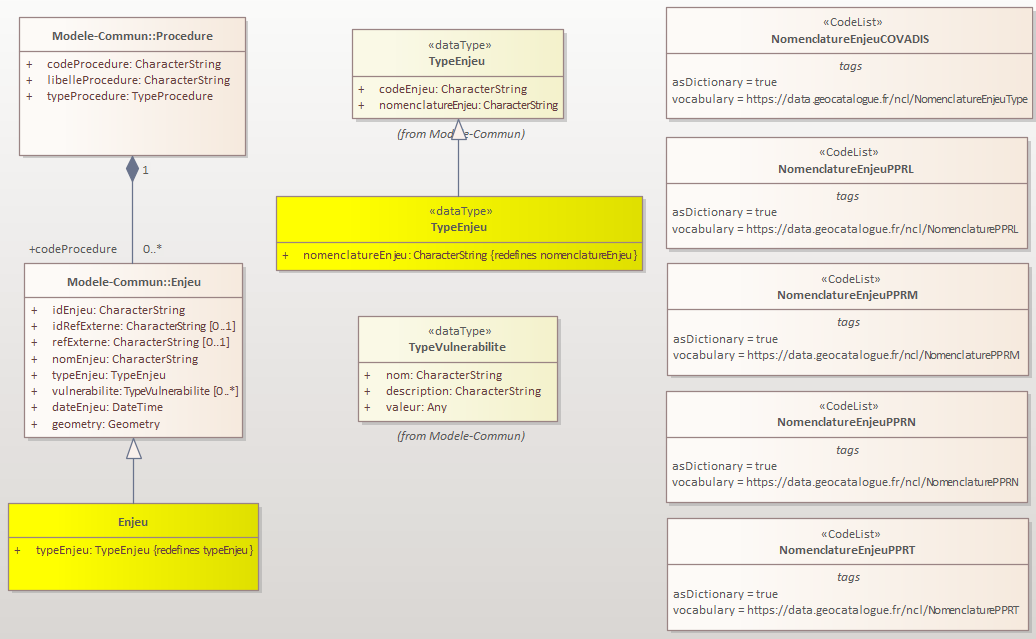
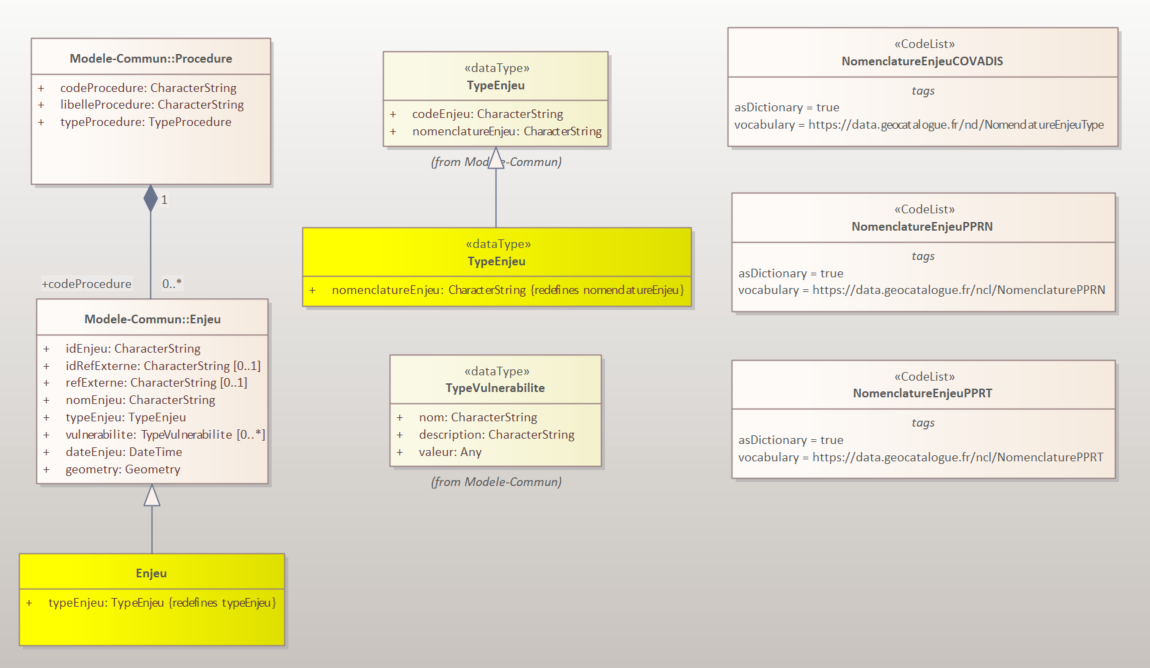
Fusion nomenclatures enjeux PPRN et PPRL

diff --git a/standards/Geostandards-risques-ppr/Document.md b/standards/Geostandards-risques-ppr/Document.md
@@ -442,8 +442,7 @@ Selon les types de PPR et les guides d'élaboration qui leur sont associés, les
 
 Le profil applicatif PPR décline les différentes nomenclatures définies dans les guides d'élaboration en fonction du type de PPR sous forme d'énumérations, qu'il conviendra d'adopter selon le type de PPR qui est mis en œuvre :
 
-- Liste de codes [NomenclatureEnjeuPPRN](#liste-de-codes-nomenclatureenjeupprn) issue du [Guide PPRN:2016](https://www.actu-environnement.com/media/pdf/guide-pprn.pdf) ;
-- Liste de codes [NomenclatureEnjeuPPRL](#liste-de-codes-nomenclatureenjeupprl) issue du [Guide PPRL:2014](https://www.ecologie.gouv.fr/sites/default/files/documents/Guide_m%C3%A9thodo_PPRL_%202014.pdf) ;
+- Liste de codes [NomenclatureEnjeuPPRN](#liste-de-codes-nomenclatureenjeupprn) issue du [Guide PPRN:2016](https://www.actu-environnement.com/media/pdf/guide-pprn.pdf) et du [Guide PPRL:2014](https://www.ecologie.gouv.fr/sites/default/files/documents/Guide_m%C3%A9thodo_PPRL_%202014.pdf) ;
 - Liste de codes [NomenclatureEnjeuPPRT](#liste-de-codes-nomenclatureenjeupprt) issue du [Guide PPRT:2007](https://www.ecologie.gouv.fr/sites/default/files/Guide_PPRT_tbd_complet.pdf) ;
 
 Par ailleurs, l'annexe D de l'ancien standard COVADIS PPR naturels ou technologiques définissait à titre informatif une nomenclature détaillée des enjeux. Cette nomenclature est reprise ici sous le nom de [NomenclatureEnjeuCOVADIS](#liste-de-codes-nomenclatureenjeucovadis), toujours à titre informatif, de façon à faciliter la conversion des anciens PPR COVADIS s'appuyant sur cette nomenclature sans avoir à refaire une classification des enjeux selon une nouvelle nomenclature mais aussi, pour les nouveaux PPR, de préciser, si besoin, la catégorie de certains enjeux.
@@ -740,17 +739,8 @@ Les entités définies dans le modèle commun s'appliquent pour PPR.
 
 **Titre** : Nomenclature Enjeux PPR Naturels Prévisibles
 
-**Définition** : La liste de codes "NomenclatureEnjeuPPRN" expose la classification des enjeux définie par [Guide PPRN:2016](https://www.actu-environnement.com/media/pdf/guide-pprn.pdf). La liste des codes est détaillée en annexe [NomenclatureEnjeuPPRN](#nomenclatureenjeupprn). 
+**Définition** : La liste de codes "NomenclatureEnjeuPPRN" expose les classifications des enjeux définies par [Guide PPRN:2016](https://www.actu-environnement.com/media/pdf/guide-pprn.pdf) et [Guide PPRL:2014](https://www.ecologie.gouv.fr/sites/default/files/Guide%20PPRL%20-%20version%20finale%20mai%202014.pdf). La liste des codes est détaillée en annexe [NomenclatureEnjeuPPRN](#nomenclatureenjeupprn). 
 
-
-
-#### Liste de codes NomenclatureEnjeuPPRL
-
-**Nom de la liste de codes** : NomenclatureEnjeuPPRL
-
-**Titre** : Nomenclature des Enjeux PPR Littoraux
-
-**Définition** : La liste de codes "NomenclatureEnjeuPPRL" expose la classification des enjeux définie par [Guide PPRL:2014](https://www.ecologie.gouv.fr/sites/default/files/Guide%20PPRL%20-%20version%20finale%20mai%202014.pdf), précisée par certains éléments communs au [Guide PPRN:2016](https://www.actu-environnement.com/media/pdf/guide-pprn.pdf). La liste des codes est détaillée en annexe [NomenclatureEnjeuPPRL](#nomenclatureenjeupprl). 
 
 
 #### Liste de codes NomenclatureEnjeuPPRT
@@ -760,6 +750,7 @@ Les entités définies dans le modèle commun s'appliquent pour PPR.
 **Titre** : Nomenclature des Enjeux PPR Technologiques
 
 **Définition** : La liste de codes "NomenclatureEnjeuPPRT" expose la classification des enjeux définie par [Guide PPRT:2007](https://www.ecologie.gouv.fr/sites/default/files/Guide_PPRT_tbd_complet.pdf). La liste des codes est détaillée en annexe [NomenclatureEnjeuPPRT](#nomenclatureenjeupprt).
+
 
 
 #### Liste de codes NomenclatureEnjeuCOVADIS
@@ -852,7 +843,7 @@ __Note__ : les acronymes IGN utilisés dans ce tableau sont les identifiants des
 | Zone géographique | Système géodésique (acronyme IGN) | Système de référence terrestre associé | Projection (acronyme IGN)| Code EPSG |
 |-|-|-|-|-|
 | France métropolitaine | Réseau géodésique français 1993 (RGF93) | ETRS89 | Lambert-93 (RGF93LAMB93) | EPSG:2154 |
-| Guadeloupe, Martinique, Saint-Martin, Saint-Barthélemy | Réseau géodésique des Antilles françaises 2009 (RGAF09) | ITRS | Universal transverse Mercator fuseau 20 nord (RGAF09UTM20) | EPSG:5490 |
+| Guadeloupe, Martinique, Saint-Martin | Réseau géodésique des Antilles françaises 2009 (RGAF09) | ITRS | Universal transverse Mercator fuseau 20 nord (RGAF09UTM20) | EPSG:5490 |
 | Guyane | Réseau géodésique français de Guyane 1995 (RGFG95) | ITRS | Universal transverse Mercator fuseau 22 nord (RGFG95UTM22) | EPSG:2972 |
 | La Réunion | Réseau géodésique de La Réunion 1992 (RGR92) | ITRS | Universal transverse Mercator fuseau 40 sud (RGR92UTM40S) | EPSG:2975 |
 | Mayotte | Réseau géodésique de Mayotte 2004 (RGM04) | ITRS | Universal transverse Mercator fuseau 38 sud (RGM04UTM38S) | EPSG:4471 |
@@ -3061,7 +3052,7 @@ Cette annexe rassemble les définitions complètes des différentes nomenclature
 
 ## NomenclatureEnjeuPPRN
 
-La liste de codes "NomenclatureEnjeuPPRN" expose la classification des enjeux définie par [Guide PPRN:2016](https://www.actu-environnement.com/media/pdf/guide-pprn.pdf). Il s'agit d'une classification hiérarchique qui s'appuie sur les trois grandes catégories d'enjeux définies dans le guide : les enjeux incontournables, les enjeux complémentaires et les autres éléments de contexte. 
+La liste de codes "NomenclatureEnjeuPPRN" expose et fusionne les classifications des enjeux définies par [Guide PPRN:2016](https://www.actu-environnement.com/media/pdf/guide-pprn.pdf) et [Guide PPRL:2014](https://www.ecologie.gouv.fr/sites/default/files/Guide%20PPRL%20-%20version%20finale%20mai%202014.pdf). Il s'agit d'une classification hiérarchique qui s'appuie sur les trois grandes catégories d'enjeux définies dans le guide : les enjeux incontournables, les enjeux complémentaires et les autres éléments de contexte. 
 
 La colonne "Code" propose une codification hiérarchique du type d'enjeu permettant de l'identifier de manière unique sous forme d'une URI en le préfixant avec un nom de domaine commun lié à la nomenclature. Par exemple, dans le système de publication de registres du Géocatalogue : "https://data.geocatalogue.fr/ncl/NomenclatureEnjeuPPRN"+*code*.
 
@@ -3073,74 +3064,37 @@ La colonne "Code" propose une codification hiérarchique du type d'enjeu permett
 | espaceUrba/centreUrbain | Centres urbains | Espaces urbanisés | Au sein de l’espace urbanisé, le centre urbain est une entité particulière qui peut donner lieu à un zonage et une réglementation spécifiques. La définition des centres urbains est faite par référence à la [Circulaire du 24 avril 1996 relative aux dispositions applicables au bâti et ouvrages existants en zones inondables](https://www.legifrance.gouv.fr/jorf/id/JORFTEXT000000546346) qui indique qu'ils se caractérisent par leur histoire, par une occupation du sol de fait importante, une continuité bâtie et la mixité des usages entre logements, commerces et services. |
 | espaceUrba/horsCentreUrbain | Espaces urbanisés hors centres urbains | Espaces urbanisés | Cette sous-catégorie d'espace urbanisés permet d'identifier en tant que telles les zones urbanisées **en dehors des centres urbains** au sens de l'[article R562-11-6 du code de l'environnement](https://www.legifrance.gouv.fr/codes/article_lc/LEGIARTI000038733757) |
 | /espaceNonUrba | Espaces non urbanisés | - | Espaces se définissant par opposition aux espaces urbanisés et correspondant aux **zones non urbanisées** évoquées dans l'[article R562-11-6 du code de l'environnement](https://www.legifrance.gouv.fr/codes/article_lc/LEGIARTI000038733757) | 
-| /espaceSpecifique | Espaces spécifiques au type d’aléa étudié | - | Espaces naturels, agricoles, forestiers ou autres pouvant jouer un rôle dans la dynamique des phénomènes. Les sous-catégories suivantes permettent d'en caractériser certains |
-| /espaceSpecifique/expansionCrues | Zones d’expansion des crues | Espaces spécifiques au type d’aléa étudié | Zones d’expansion des crues pour les inondations |
-| /espaceSpecifique/atterrisement | Zones d’atterrissement | Espaces spécifiques au type d’aléa étudié | Zones d'atterrissement pour les crues torrentielles. |
-| /espaceSpecifique/interfaceHabitatForet | Zones d’interfaces habitat-forêt | Espaces spécifiques au type d’aléa étudié | Zones d’interfaces habitat-forêt pour les incendies de forêt ou le maintien d’une forêt pour retenir un manteau neigeux ou des chutes de blocs. |
-| /espaceSpecifique/maintienForet | Zones de maintien d’une forêt | Espaces spécifiques au type d’aléa étudié | Zone de maintien d’une forêt pour retenir un manteau neigeux ou des chutes de blocs. |
-| /projetCollectivite | Projets des collectivités | - | Enjeux incontournables - Les projets d’aménagement doivent être recensés et discutés avec les collectivités, afin de vérifier leur cohérence vis-à-vis de l’exposition possible aux risques. |
-
-### Enjeux complémentaires
-
-| Code | Libellé | Libellé Parent | Définition |
-|-|-|-|-|
-| /habitat | Zone d'habitat | -  | Zone de typologie de bâti homogène destinée à l'habitat |
-| /habitat/individuel | Zone d'habitat individuel | Zone d'habitat | Zone de typologie de bâti homogène destinée à l'habitat individuel (pavillons) |
-| /habitat/collectif | Zone d'habitat collectif |  zone d'habitat | Zone de typologie de bâti homogène destinée à l'habitat collectif (immeubles d'habitations)  |
-| /activite | Zone d'activité | - | Typologie du bâti |  Zone de typologie de bâti homogène destinée à l'activité professionnelle |
-| /activite/industrie | Zone d'industrie | Zone d'activité | Typologie du bâti | Zone de typologie de bâti homogène destinée à l'industrie |
-| /activite/service | Service | Zone d'activité | Zone de typologie de bâti homogène destinée au service |
-| /activite/artisanat | Artisanat | Zone d'activité | Zone de typologie de bâti homogène destinée à l'artisanat |
-| /equipementParticulier | Infrastructures et équipements particuliers | - | Eléments faisant l'objet d'une vulnérabilité propre et de prescription spécifique |
-| /equipementParticulier/sensibleCrise | Etablissements sensibles ou difficilement évacuables | Infrastructures et équipements particuliers | Par exemple : crèches, écoles, hôpitaux, maisons de retraite, centres pénitentiaires. Cette catégorie peut être affinée à l'aide de la nomenclature COVADIS |
-| /equipementParticulier/gestionCrise | Equipements nécessaires à la gestion de crise | Infrastructures et équipements particuliers | Par exemple : centres de secours, gendarmerie, police, services techniques...  Cette catégorie peut être affinée à l'aide de la nomenclature COVADIS |
-| /equipementParticulier/collectifsPublicsOuverts | Equipements collectifs ou espaces publics ouverts | Infrastructures et équipements particuliers | Equipements regroupant ponctuellement ou périodiquement en un point donné du territoire un nombre important de personnes. Cette catégorie peut être affinée à l'aide de la nomenclature COVADIS |
-| /equipementParticulier/campings | Campings et hôtellerie de plein air | Infrastructures et équipements particuliers | Campings et hôtellerie de plein air |
-| /equipementParticulier/infraTransport | Infrastructures de transport | Infrastructures et équipements particuliers | Infrastructures de transport. Cette catégorie peut être affinée à l'aide de la nomenclature COVADIS |
-| /equipementParticulier/reseauxSensibles | Réseaux et équipements sensibles | Infrastructures et équipements particuliers | Réseaux électriques et téléphoniques aériens, réseaux enterrés d’eau et de gaz, stations de traitement des eaux usées, installations d’alimentation en eau potable... |
-| /patrimoineEnvironement | Enjeux patrimoniaux, culturels et environnementaux | - | Par exemple des secteurs sauvegardés, des monuments historiques qui sont soumis à des réglementations particulières avec lesquelles il faudra veiller à définir des mesures cohérentes.|
-
-
-## NomenclatureEnjeuPPRL
-
-La liste de codes "NomenclatureEnjeuPPRL" expose la classification des enjeux définie par [Guide PPRL:2014](https://www.ecologie.gouv.fr/sites/default/files/Guide%20PPRL%20-%20version%20finale%20mai%202014.pdf), précisée par certains éléments communs au [Guide PPRN:2016](https://www.actu-environnement.com/media/pdf/guide-pprn.pdf). Il s'agit d'une classification hiérarchique qui s'appuie sur les trois grandes catégories d'enjeux définies dans le guide : les enjeux incontournables, les enjeux complémentaires et les autres éléments de contexte. 
-
-La colonne "Code" propose une codification hiérarchique du type d'enjeu permettant de l'identifier de manière unique sous forme d'une URI en le préfixant avec un nom de domaine commun lié à la nomenclature. Par exemple, dans le système de publication de registres du Géocatalogue : "https://data.geocatalogue.fr/ncl/NomenclatureEnjeuPPRL"+*code*.
-
-
-### Enjeux incontournables
-
-| Code | Libellé | Libellé Parent | Définition |
-|-|-|-|-|
-| /espaceUrba | Espaces urbanisés | -  | La définition de ces espaces se fait par référence à la [circulaire 96-32 du ministère de l'équipement](https://dtrf.cerema.fr/pdf/pj/Dtrf/0000/Dtrf-0000327/TO327.pdf) qui précise que le caractère urbanisé ou non d’un espace doit s’apprécier en fonction de la réalité physique constatée et non en fonction d’un zonage opéré par un plan local d’urbanisme, ce qui conduit à exclure les zones dites urbanisables. |
-| espaceUrba/centreUrbain | Centres urbains | Espaces urbanisés | Au sein de l’espace urbanisé, le centre urbain est une entité particulière qui peut donner lieu à un zonage et une réglementation spécifiques. La définition des centres urbains est faite par référence à la [Circulaire du 24 avril 1996 relative aux dispositions applicables au bâti et ouvrages existants en zones inondables](https://www.legifrance.gouv.fr/jorf/id/JORFTEXT000000546346) qui indique qu'ils se caractérisent par leur histoire, par une occupation du sol de fait importante, une continuité bâtie et la mixité des usages entre logements, commerces et services. |
-| espaceUrba/horsCentreUrbain | Espaces urbanisés hors centres urbains | Espaces urbanisés | Cette sous-catégorie d'espace urbanisés permet d'identifier en tant que telles les zones urbanisées **en dehors des centres urbains** au sens de l'[article R562-11-6 du code de l'environnement](https://www.legifrance.gouv.fr/codes/article_lc/LEGIARTI000038733757) |
-| /espaceNonUrba | Espaces non urbanisés | - | Espaces se définissant par opposition aux espaces urbanisés et correspondant aux **zones non urbanisées** évoquées dans l'[article R562-11-6 du code de l'environnement](https://www.legifrance.gouv.fr/codes/article_lc/LEGIARTI000038733757) | 
-| /espaceSpecifique | Espaces spécifiques au type d’aléa étudié | - | Espaces support d'activités spécifiques et particulièrement vulnérables aux aléas étudiés. Les catégories suivantes permettent d'en identifier certains |
-| /espaceSpecifique/portuaireBalneaire | Ports, zones d’activités portuaires et d’activités balnéaires | Espaces spécifiques au type d’aléa étudié | Les ports, zones d’activités portuaires et d’activités balnéaires |
-| /espaceSpecifique/campings | Campings et hôtellerie de plein air | Espaces spécifiques au type d’aléa étudié | Campings et hôtellerie de plein air |
-| /espaceSpecifique/activiteAgricoles | Zones d'activités agricoles spécifiques | Espaces spécifiques au type d’aléa étudié | Par exemple : les élevages sur prés salés et les marais salants |
+| /espaceSpecifique | Espaces spécifiques au type d’aléa étudié | - | Espaces naturels, agricoles, forestiers ou autres pouvant jouer un rôle dans la dynamique des phénomènes ou support d'activités spécifiques et particulièrement vulnérables aux aléas étudiés. Les catégories suivantes permettent d'en identifier certains |
+| /espaceSpecifique/portuaireBalneaire | Ports, zones d’activités portuaires et d’activités balnéaires | Espaces spécifiques au type d’aléa étudié | Enjeu incontournable dans le cadre des PPRLs : les ports, zones d’activités portuaires et d’activités balnéaires |
+| /espaceSpecifique/campings | Campings et hôtellerie de plein air | Espaces spécifiques au type d’aléa étudié | Enjeu incontournable dans le cadre des PPRLs : campings et hôtellerie de plein air |
+| /espaceSpecifique/activiteAgricoles | Zones d'activités agricoles spécifiques | Espaces spécifiques au type d’aléa étudié | Activités agricoles identifiées comme enjeux incontournables. Par exemple dans le cadre des PPRLs : les élevages sur prés salés et les marais salants |
 | /espaceSpecifique/limitationAlea | Espaces participants à la limitation des aléas | Espaces spécifiques au type d’aléa étudié | Espaces naturels, agricoles ou forestiers pouvant jouer un rôle dans la dynamique des phénomènes. |
+| /espaceSpecifique/limitationAlea/expansionCrues | Zones d’expansion des crues | Espaces participants à la limitation des aléas | Zones d’expansion des crues pour les inondations |
+| /espaceSpecifique/limitationAlea/atterrisement | Zones d’atterrissement | Espaces participants à la limitation des aléas | Zones d'atterrissement pour les crues torrentielles. |
+| /espaceSpecifique/limitationAlea/interfaceHabitatForet | Zones d’interfaces habitat-forêt | Espaces participants à la limitation des aléas | Zones d’interfaces habitat-forêt pour les incendies de forêt ou le maintien d’une forêt pour retenir un manteau neigeux ou des chutes de blocs. |
+| /espaceSpecifique/limitationAlea/maintienForet | Zones de maintien d’une forêt | Espaces participants à la limitation des aléas | Zone de maintien d’une forêt pour retenir un manteau neigeux ou des chutes de blocs. |
+| /projetCollectivite | Projets d'aménagement futurs du territoire | - | Enjeux incontournables - Les projets d’aménagement doivent être recensés et discutés avec les collectivités, afin de vérifier leur cohérence vis-à-vis de l’exposition possible aux risques. |
 
 
 ### Enjeux complémentaires
 
 | Code | Libellé | Libellé Parent | Définition |
 |-|-|-|-|
-| /projetCollectivite | Projets d'aménagement futurs du territoire | - | Les projets d’aménagement doivent être recensés et discutés avec les collectivités, afin de vérifier leur cohérence vis-à-vis de l’exposition possible aux risques. |
-| /equipementParticulier | Infrastructures et équipements particuliers | - | Eléments faisant l'objet d'une vulnérabilité propre et de prescription spécifique |
-| /equipementParticulier/sensibleCrise | Etablissements sensibles ou difficilement évacuables | Infrastructures et équipements particuliers | Par exemple : crèches, écoles, hôpitaux, maisons de retraite, centres pénitentiaires... Cette catégorie peut être affinée à l'aide de la nomenclature COVADIS |
-| /equipementParticulier/collectifERPPublicOuverts | Equipements collectifs de type ERP ou espaces publics ouverts | Infrastructures et équipements particuliers | Equipements regroupant ponctuellement ou périodiquement en un point donné du territoire un nombre important de personnes. Cette catégorie peut être affinée à l'aide de la nomenclature COVADIS |
-| /equipementParticulier/transports | Infrastructures de transport | Infrastructures et équipements particuliers | Infrastructures de transport pouvant assurer l'accès des secours ou l'évacuation des personnes. Cette catégorie peut être affinée à l'aide de la nomenclature COVADIS |
-| patrimoineEnvironement | Enjeux patrimoniaux, culturels et environnementaux | - | Enjeux pour lesquels des mesures de prévention, de protection ou de sauvegarde peuvent être prescrites. Notamment, certains espaces naturels pouvant jouer un rôle et limiter l’effet de l’aléa (dune, étang, marais, …). |
 | /habitat | Zone d'habitat | -  | Zone de typologie de bâti homogène destinée à l'habitat |
 | /habitat/individuel | Zone d'habitat individuel | Zone d'habitat | Zone de typologie de bâti homogène destinée à l'habitat individuel (pavillons) |
 | /habitat/collectif | Zone d'habitat collectif |  zone d'habitat | Zone de typologie de bâti homogène destinée à l'habitat collectif (immeubles d'habitations)  |
 | /activite | Zone d'activité | - | Zone de typologie de bâti homogène destinée à l'activité professionnelle |
 | /activite/industrie | Zone d'industrie | Zone d'activité | Zone de typologie de bâti homogène destinée à l'industrie |
 | /activite/service | Service | Zone d'activité | Zone de typologie de bâti homogène destinée au service |
-| /activite/artisanat | artisanat | Zone d'activité | Zone de typologie de bâti homogène destinée à l'artisanat |
-| /gestionCrise | Enjeux stratégiques pour la gestion de crise | -  | Autres éléments de contextes - Par exemple : PC de crises, centres de secours, ERP pouvant servir d'hébergement, centraux téléphoniques, centrales électriques. Cette catégorie peut être affinée à l'aide de la nomenclature COVADIS |
+| /activite/artisanat | Artisanat | Zone d'activité | Zone de typologie de bâti homogène destinée à l'artisanat |
+| /equipementParticulier | Infrastructures et équipements particuliers | - | Eléments faisant l'objet d'une vulnérabilité propre et de prescription spécifique |
+| /equipementParticulier/sensibleCrise | Etablissements sensibles ou difficilement évacuables | Infrastructures et équipements particuliers | Par exemple : crèches, écoles, hôpitaux, maisons de retraite, centres pénitentiaires. Cette catégorie peut être affinée à l'aide de la nomenclature COVADIS |
+| /equipementParticulier/gestionCrise | Equipements stratégiques pour la gestion de crise | Infrastructures et équipements particuliers | Par exemple : PC de crises, centres de secours, ERP pouvant servir d'hébergement, centraux téléphoniques, centrales électriques, gendarmerie, police, services techniques...  Cette catégorie peut être affinée à l'aide de la nomenclature COVADIS |
+| /equipementParticulier/collectifsPublicsOuverts | Equipements collectifs de type ERP ou espaces publics ouverts | Infrastructures et équipements particuliers | Equipements regroupant ponctuellement ou périodiquement en un point donné du territoire un nombre important de personnes. Cette catégorie peut être affinée à l'aide de la nomenclature COVADIS |
+| /equipementParticulier/campings | Campings et hôtellerie de plein air | Infrastructures et équipements particuliers | Campings et hôtellerie de plein air |
+| /equipementParticulier/transports | Infrastructures de transport | Infrastructures et équipements particuliers | Infrastructures de transport pouvant assurer l'accès des secours ou l'évacuation des personnes. Cette catégorie peut être affinée à l'aide de la nomenclature COVADIS |
+| /equipementParticulier/reseauxSensibles | Réseaux et équipements sensibles | Infrastructures et équipements particuliers | Réseaux électriques et téléphoniques aériens, réseaux enterrés d’eau et de gaz, stations de traitement des eaux usées, installations d’alimentation en eau potable... |
+| /patrimoineEnvironement | Enjeux patrimoniaux, culturels et environnementaux | - | Par exemple des secteurs sauvegardés, des monuments historiques qui sont soumis à des réglementations particulières avec lesquelles il faudra veiller à définir des mesures cohérentes.|
 
 
 ## NomenclatureEnjeuPPRT
